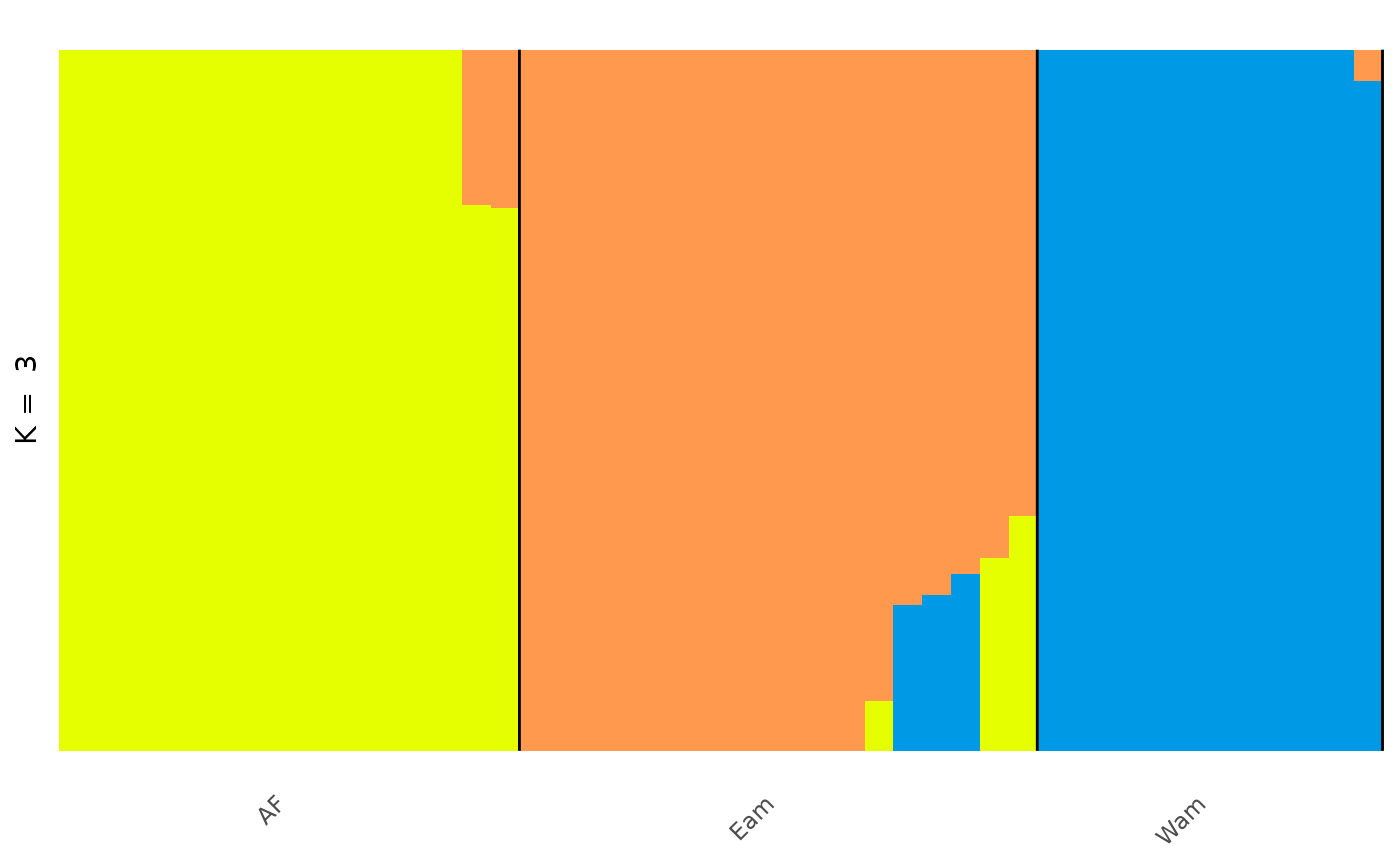
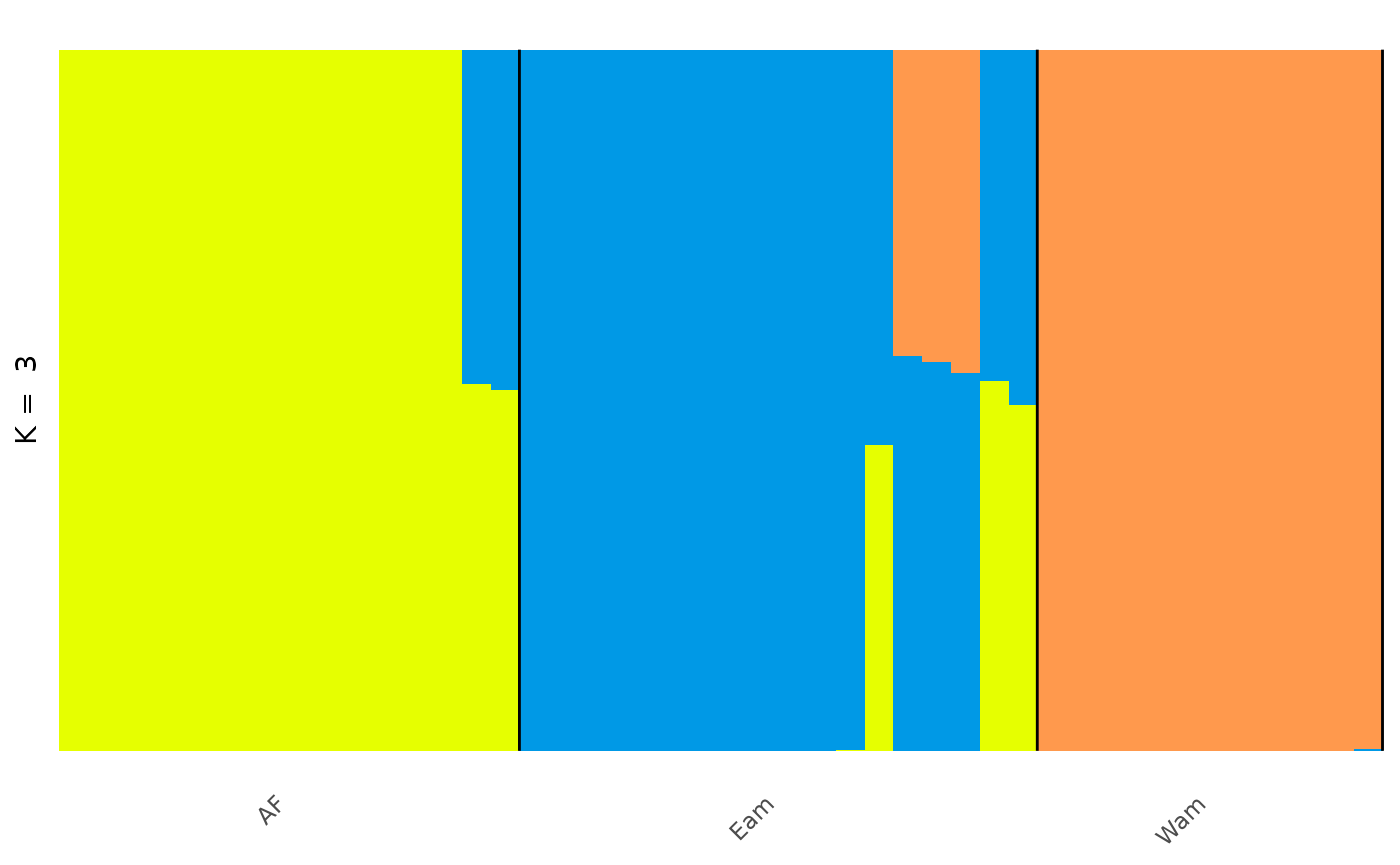
Deploying to gh-pages from @ EvolEcolGroup/tidygenclust@1fb72ca46dfa98d352c1ea52c8d83dc4de6b8d73 🚀

diff --git a/articles/tidygenclust.html b/articles/tidygenclust.html
@@ -278,44 +278,39 @@ specify a value for the number of clusters K.</p>
 <div class="sourceCode" id="cb20"><pre class="downlit sourceCode r">
 <code class="sourceCode R"><span><span class="va">anole_res</span> <span class="op">&lt;-</span> <span class="va">anole_gt</span> <span class="op"><a href="../reference/pipe.html">%&gt;%</a></span> <span class="fu"><a href="../reference/gt_fastmixture.html">gt_fastmixture</a></span><span class="op">(</span>k <span class="op">=</span> <span class="fl">3</span><span class="op">)</span></span></code></pre></div>
 <pre><code><span><span class="co">## -------------------------------------------------</span></span>
-<span><span class="co">## fastmixture v1.0.3</span></span>
+<span><span class="co">## fastmixture v1.1.1</span></span>
 <span><span class="co">## C.G. Santander, A. Refoyo-Martinez and J. Meisner</span></span>
 <span><span class="co">## K=3, seed=42, batches=32, threads=1</span></span>
 <span><span class="co">## -------------------------------------------------</span></span>
 <span><span class="co">## </span></span>
-<span><span class="co">## Loaded 46 samples and 3249 SNPs.</span></span>
+<span><span class="co">## </span></span>
+<span><span class="co">## WARNING: Few SNPs per mini-batch!</span></span>
+<span><span class="co">## </span></span>
 <span><span class="co">## Random initialization.</span></span>
 <span><span class="co">## Initial log-like: -220422.9</span></span>
-<span><span class="co">## Performed priming iteration  (0.0s)</span></span>
+<span><span class="co">## Performed priming iteration. (0.0s)</span></span>
 <span><span class="co">## </span></span>
 <span><span class="co">## Estimating Q and P using mini-batch EM.</span></span>
 <span><span class="co">## Using 32 mini-batches.</span></span>
-<span><span class="co">## (5)  Log-like: -58511.2  (0.0s)</span></span>
-<span><span class="co">## (10) Log-like: -58499.3  (0.0s)</span></span>
-<span><span class="co">## (15) Log-like: -58487.9  (0.0s)</span></span>
-<span><span class="co">## (20) Log-like: -58483.5  (0.0s)</span></span>
-<span><span class="co">## (25) Log-like: -58472.6  (0.0s)</span></span>
-<span><span class="co">## (30) Log-like: -58453.3  (0.0s)</span></span>
-<span><span class="co">## (35) Log-like: -58458.6  (0.0s)</span></span>
+<span><span class="co">## (5)  Log-like: -65244.8  (0.0s)</span></span>
+<span><span class="co">## (10) Log-like: -59883.7  (0.0s)</span></span>
+<span><span class="co">## (15) Log-like: -60094.3  (0.0s)</span></span>
 <span><span class="co">## Halving mini-batches to 16.</span></span>
-<span><span class="co">## (40) Log-like: -58447.8  (0.0s)</span></span>
-<span><span class="co">## (45) Log-like: -58444.6  (0.0s)</span></span>
-<span><span class="co">## (50) Log-like: -58465.7  (0.0s)</span></span>
-<span><span class="co">## Turning on safety updates.</span></span>
-<span><span class="co">## (55) Log-like: -58442.5  (0.0s)</span></span>
-<span><span class="co">## (60) Log-like: -58444.4  (0.0s)</span></span>
+<span><span class="co">## (20) Log-like: -59933.9  (0.0s)</span></span>
+<span><span class="co">## (25) Log-like: -59964.4  (0.0s)</span></span>
 <span><span class="co">## Halving mini-batches to 8.</span></span>
-<span><span class="co">## (65) Log-like: -58439.3  (0.0s)</span></span>
-<span><span class="co">## (70) Log-like: -58438.9  (0.0s)</span></span>
+<span><span class="co">## (30) Log-like: -60797.6  (0.0s)</span></span>
+<span><span class="co">## Turning on safety updates.</span></span>
+<span><span class="co">## (35) Log-like: -64272.0  (0.0s)</span></span>
 <span><span class="co">## Halving mini-batches to 4.</span></span>
-<span><span class="co">## (75) Log-like: -58438.0  (0.0s)</span></span>
-<span><span class="co">## (80) Log-like: -58437.8  (0.0s)</span></span>
+<span><span class="co">## (40) Log-like: -63085.8  (0.0s)</span></span>
+<span><span class="co">## (45) Log-like: -64353.6  (0.0s)</span></span>
 <span><span class="co">## Halving mini-batches to 2.</span></span>
-<span><span class="co">## (85) Log-like: -58437.7  (0.0s)</span></span>
-<span><span class="co">## (90) Log-like: -58437.7  (0.0s)</span></span>
+<span><span class="co">## (50) Log-like: -59957.8  (0.0s)</span></span>
+<span><span class="co">## (55) Log-like: -65708.6  (0.0s)</span></span>
 <span><span class="co">## Running standard updates.</span></span>
 <span><span class="co">## No improvement. Returning with best estimate!</span></span>
-<span><span class="co">## Final log-likelihood: -58437.6</span></span>
+<span><span class="co">## Final log-likelihood: -59883.7</span></span>
 <span><span class="co">## Total elapsed time: 0m0s</span></span></code></pre>
 <p>This will <em>very</em> quickly return a single Q matrix, for one
 specified K value. But, most likely we want to explore multiple values
@@ -363,24 +358,24 @@ of K = 4 like so:</p>
 <span>  <span class="fu"><a href="https://evolecolgroup.github.io/tidypopgen/reference/get_q_matrix.html" class="external-link">get_q_matrix</a></span><span class="op">(</span>k <span class="op">=</span> <span class="fl">4</span>, run <span class="op">=</span> <span class="fl">2</span><span class="op">)</span> <span class="op"><a href="../reference/pipe.html">%&gt;%</a></span></span>
 <span>  <span class="fu"><a href="https://rdrr.io/r/utils/head.html" class="external-link">head</a></span><span class="op">(</span><span class="op">)</span></span></code></pre></div>
 <pre><code><span><span class="co">##               .Q1          .Q2          .Q3          .Q4</span></span>
-<span><span class="co">## [1,] 9.999923e-06 9.999923e-06 9.999923e-06 9.999700e-01</span></span>
-<span><span class="co">## [2,] 9.999914e-06 9.999914e-06 9.999914e-06 9.999700e-01</span></span>
-<span><span class="co">## [3,] 3.179351e-01 6.820449e-01 9.999912e-06 9.999912e-06</span></span>
-<span><span class="co">## [4,] 9.999700e-01 9.999868e-06 9.999868e-06 9.999868e-06</span></span>
-<span><span class="co">## [5,] 2.626097e-01 7.373703e-01 9.999908e-06 9.999908e-06</span></span>
-<span><span class="co">## [6,] 9.999845e-06 9.999845e-06 9.999700e-01 9.999845e-06</span></span></code></pre>
+<span><span class="co">## [1,] 2.115600e-05 2.813873e-05 6.108197e-05 9.998896e-01</span></span>
+<span><span class="co">## [2,] 1.834057e-05 2.645122e-05 5.326335e-05 9.999019e-01</span></span>
+<span><span class="co">## [3,] 5.074471e-01 4.925329e-01 9.999875e-06 9.999875e-06</span></span>
+<span><span class="co">## [4,] 9.999318e-01 4.818752e-05 1.000000e-05 1.000000e-05</span></span>
+<span><span class="co">## [5,] 5.051094e-01 4.948706e-01 9.999879e-06 9.999879e-06</span></span>
+<span><span class="co">## [6,] 1.000000e-05 1.000000e-05 9.999464e-01 3.360893e-05</span></span></code></pre>
 <p>Or the P matrix of the first run of K = 3:</p>
 <div class="sourceCode" id="cb27"><pre class="downlit sourceCode r">
 <code class="sourceCode R"><span><span class="va">anole_res</span> <span class="op"><a href="../reference/pipe.html">%&gt;%</a></span></span>
 <span>  <span class="fu"><a href="https://evolecolgroup.github.io/tidypopgen/reference/get_p_matrix.html" class="external-link">get_p_matrix</a></span><span class="op">(</span>k <span class="op">=</span> <span class="fl">3</span>, run <span class="op">=</span> <span class="fl">1</span><span class="op">)</span> <span class="op"><a href="../reference/pipe.html">%&gt;%</a></span></span>
 <span>  <span class="fu"><a href="https://rdrr.io/r/utils/head.html" class="external-link">head</a></span><span class="op">(</span><span class="op">)</span></span></code></pre></div>
 <pre><code><span><span class="co">##           [,1]      [,2]  [,3]</span></span>
-<span><span class="co">## [1,] 0.3920996 0.0000100 1e-05</span></span>
-<span><span class="co">## [2,] 0.1677997 0.8351086 1e-05</span></span>
-<span><span class="co">## [3,] 0.0000100 0.8396586 1e-05</span></span>
-<span><span class="co">## [4,] 0.1833421 0.4999566 1e-05</span></span>
-<span><span class="co">## [5,] 0.3321308 0.0000100 1e-05</span></span>
-<span><span class="co">## [6,] 0.2612136 0.9999900 1e-05</span></span></code></pre>
+<span><span class="co">## [1,] 0.4134744 0.0000100 1e-05</span></span>
+<span><span class="co">## [2,] 0.1700725 0.8064057 1e-05</span></span>
+<span><span class="co">## [3,] 0.0000100 0.8109002 1e-05</span></span>
+<span><span class="co">## [4,] 0.1812214 0.4957036 1e-05</span></span>
+<span><span class="co">## [5,] 0.3309743 0.0000100 1e-05</span></span>
+<span><span class="co">## [6,] 0.2258939 0.9999900 1e-05</span></span></code></pre>
 </div>
 <div class="section level3">
 <h3 id="visualising-the-results">Visualising the results<a class="anchor" aria-label="anchor" href="#visualising-the-results"></a>
@@ -416,14 +411,14 @@ use for the plot:</p>
 <span><span class="co">##    id         group            q     percentage</span></span>
 <span><span class="co">##    <span style="color: #949494; font-style: italic;">&lt;chr&gt;</span>      <span style="color: #949494; font-style: italic;">&lt;chr&gt;</span>            <span style="color: #949494; font-style: italic;">&lt;chr&gt;</span>      <span style="color: #949494; font-style: italic;">&lt;dbl&gt;</span></span></span>
 <span><span class="co">## <span style="color: #BCBCBC;"> 1</span> punc_BM288 Amazonian_Forest .Q1   1.000     </span></span>
-<span><span class="co">## <span style="color: #BCBCBC;"> 2</span> punc_BM288 Amazonian_Forest .Q2   0.000<span style="text-decoration: underline;">010</span>00</span></span>
-<span><span class="co">## <span style="color: #BCBCBC;"> 3</span> punc_BM288 Amazonian_Forest .Q3   0.000<span style="text-decoration: underline;">010</span>00</span></span>
+<span><span class="co">## <span style="color: #BCBCBC;"> 2</span> punc_BM288 Amazonian_Forest .Q2   0.000<span style="text-decoration: underline;">026</span>5 </span></span>
+<span><span class="co">## <span style="color: #BCBCBC;"> 3</span> punc_BM288 Amazonian_Forest .Q3   0.000<span style="text-decoration: underline;">067</span>5 </span></span>
 <span><span class="co">## <span style="color: #BCBCBC;"> 4</span> punc_GN71  Amazonian_Forest .Q1   1.000     </span></span>
-<span><span class="co">## <span style="color: #BCBCBC;"> 5</span> punc_GN71  Amazonian_Forest .Q2   0.000<span style="text-decoration: underline;">010</span>00</span></span>
-<span><span class="co">## <span style="color: #BCBCBC;"> 6</span> punc_GN71  Amazonian_Forest .Q3   0.000<span style="text-decoration: underline;">010</span>00</span></span>
-<span><span class="co">## <span style="color: #BCBCBC;"> 7</span> punc_H1907 Amazonian_Forest .Q1   0.000<span style="text-decoration: underline;">010</span>00</span></span>
+<span><span class="co">## <span style="color: #BCBCBC;"> 5</span> punc_GN71  Amazonian_Forest .Q2   0.000<span style="text-decoration: underline;">023</span>7 </span></span>
+<span><span class="co">## <span style="color: #BCBCBC;"> 6</span> punc_GN71  Amazonian_Forest .Q3   0.000<span style="text-decoration: underline;">058</span>7 </span></span>
+<span><span class="co">## <span style="color: #BCBCBC;"> 7</span> punc_H1907 Amazonian_Forest .Q1   0.000<span style="text-decoration: underline;">023</span>7 </span></span>
 <span><span class="co">## <span style="color: #BCBCBC;"> 8</span> punc_H1907 Amazonian_Forest .Q2   1.000     </span></span>
-<span><span class="co">## <span style="color: #BCBCBC;"> 9</span> punc_H1907 Amazonian_Forest .Q3   0.000<span style="text-decoration: underline;">010</span>00</span></span>
+<span><span class="co">## <span style="color: #BCBCBC;"> 9</span> punc_H1907 Amazonian_Forest .Q3   0.000<span style="text-decoration: underline;">014</span>4 </span></span>
 <span><span class="co">## <span style="color: #BCBCBC;">10</span> punc_H1911 Amazonian_Forest .Q1   0.000<span style="text-decoration: underline;">010</span>00</span></span>
 <span><span class="co">## <span style="color: #949494;"># ℹ 128 more rows</span></span></span></code></pre>
 <p>In the Prates et al 2018 study, the anolis lizards were found to

diff --git a/reference/tidygenclust-package.html b/reference/tidygenclust-package.html
@@ -1,5 +1,6 @@
 <!DOCTYPE html>
-<!-- Generated by pkgdown: do not edit by hand --><html lang="en"><head><meta http-equiv="Content-Type" content="text/html; charset=UTF-8"><meta charset="utf-8"><meta http-equiv="X-UA-Compatible" content="IE=edge"><meta name="viewport" content="width=device-width, initial-scale=1.0"><title>tidygenclust: Clustering for Population Genetics in R — tidygenclust-package • tidygenclust</title><!-- jquery --><script src="https://cdnjs.cloudflare.com/ajax/libs/jquery/3.7.1/jquery.min.js" integrity="sha512-v2CJ7UaYy4JwqLDIrZUI/4hqeoQieOmAZNXBeQyjo21dadnwR+8ZaIJVT8EE2iyI61OV8e6M8PP2/4hpQINQ/g==" crossorigin="anonymous" referrerpolicy="no-referrer"></script><!-- Bootstrap --><link rel="stylesheet" href="https://cdnjs.cloudflare.com/ajax/libs/twitter-bootstrap/3.4.1/css/bootstrap.min.css" integrity="sha256-bZLfwXAP04zRMK2BjiO8iu9pf4FbLqX6zitd+tIvLhE=" crossorigin="anonymous"><script src="https://cdnjs.cloudflare.com/ajax/libs/twitter-bootstrap/3.4.1/js/bootstrap.min.js" integrity="sha256-nuL8/2cJ5NDSSwnKD8VqreErSWHtnEP9E7AySL+1ev4=" crossorigin="anonymous"></script><!-- bootstrap-toc --><link rel="stylesheet" href="../bootstrap-toc.css"><script src="../bootstrap-toc.js"></script><!-- Font Awesome icons --><link rel="stylesheet" href="https://cdnjs.cloudflare.com/ajax/libs/font-awesome/5.12.1/css/all.min.css" integrity="sha256-mmgLkCYLUQbXn0B1SRqzHar6dCnv9oZFPEC1g1cwlkk=" crossorigin="anonymous"><link rel="stylesheet" href="https://cdnjs.cloudflare.com/ajax/libs/font-awesome/5.12.1/css/v4-shims.min.css" integrity="sha256-wZjR52fzng1pJHwx4aV2AO3yyTOXrcDW7jBpJtTwVxw=" crossorigin="anonymous"><!-- clipboard.js --><script src="https://cdnjs.cloudflare.com/ajax/libs/clipboard.js/2.0.6/clipboard.min.js" integrity="sha256-inc5kl9MA1hkeYUt+EC3BhlIgyp/2jDIyBLS6k3UxPI=" crossorigin="anonymous"></script><!-- headroom.js --><script src="https://cdnjs.cloudflare.com/ajax/libs/headroom/0.11.0/headroom.min.js" integrity="sha256-AsUX4SJE1+yuDu5+mAVzJbuYNPHj/WroHuZ8Ir/CkE0=" crossorigin="anonymous"></script><script src="https://cdnjs.cloudflare.com/ajax/libs/headroom/0.11.0/jQuery.headroom.min.js" integrity="sha256-ZX/yNShbjqsohH1k95liqY9Gd8uOiE1S4vZc+9KQ1K4=" crossorigin="anonymous"></script><!-- pkgdown --><link href="../pkgdown.css" rel="stylesheet"><script src="../pkgdown.js"></script><meta property="og:title" content="tidygenclust: Clustering for Population Genetics in R — tidygenclust-package"><meta property="og:description" content="A tidy interface to clustering in population genetics. This package provides a set of functions to perform clustering on genetic data, and to visualize the results, both for single runs and for multiple repeats of the same analysis. 'tidygenclust' ports the 'fastmixture' and 'clumppling' python modules to R, and it is built on top of the 'tidypopgen' package. Currently it works only on Linux and OSX (you can use the WSL on Windows)."><meta property="og:image" content="/logo.png"><!-- mathjax --><script src="https://cdnjs.cloudflare.com/ajax/libs/mathjax/2.7.5/MathJax.js" integrity="sha256-nvJJv9wWKEm88qvoQl9ekL2J+k/RWIsaSScxxlsrv8k=" crossorigin="anonymous"></script><script src="https://cdnjs.cloudflare.com/ajax/libs/mathjax/2.7.5/config/TeX-AMS-MML_HTMLorMML.js" integrity="sha256-84DKXVJXs0/F8OTMzX4UR909+jtl4G7SPypPavF+GfA=" crossorigin="anonymous"></script><!--[if lt IE 9]>
+<!-- Generated by pkgdown: do not edit by hand --><html lang="en"><head><meta http-equiv="Content-Type" content="text/html; charset=UTF-8"><meta charset="utf-8"><meta http-equiv="X-UA-Compatible" content="IE=edge"><meta name="viewport" content="width=device-width, initial-scale=1.0"><title>tidygenclust: Clustering for Population Genetics in R — tidygenclust-package • tidygenclust</title><!-- jquery --><script src="https://cdnjs.cloudflare.com/ajax/libs/jquery/3.7.1/jquery.min.js" integrity="sha512-v2CJ7UaYy4JwqLDIrZUI/4hqeoQieOmAZNXBeQyjo21dadnwR+8ZaIJVT8EE2iyI61OV8e6M8PP2/4hpQINQ/g==" crossorigin="anonymous" referrerpolicy="no-referrer"></script><!-- Bootstrap --><link rel="stylesheet" href="https://cdnjs.cloudflare.com/ajax/libs/twitter-bootstrap/3.4.1/css/bootstrap.min.css" integrity="sha256-bZLfwXAP04zRMK2BjiO8iu9pf4FbLqX6zitd+tIvLhE=" crossorigin="anonymous"><script src="https://cdnjs.cloudflare.com/ajax/libs/twitter-bootstrap/3.4.1/js/bootstrap.min.js" integrity="sha256-nuL8/2cJ5NDSSwnKD8VqreErSWHtnEP9E7AySL+1ev4=" crossorigin="anonymous"></script><!-- bootstrap-toc --><link rel="stylesheet" href="../bootstrap-toc.css"><script src="../bootstrap-toc.js"></script><!-- Font Awesome icons --><link rel="stylesheet" href="https://cdnjs.cloudflare.com/ajax/libs/font-awesome/5.12.1/css/all.min.css" integrity="sha256-mmgLkCYLUQbXn0B1SRqzHar6dCnv9oZFPEC1g1cwlkk=" crossorigin="anonymous"><link rel="stylesheet" href="https://cdnjs.cloudflare.com/ajax/libs/font-awesome/5.12.1/css/v4-shims.min.css" integrity="sha256-wZjR52fzng1pJHwx4aV2AO3yyTOXrcDW7jBpJtTwVxw=" crossorigin="anonymous"><!-- clipboard.js --><script src="https://cdnjs.cloudflare.com/ajax/libs/clipboard.js/2.0.6/clipboard.min.js" integrity="sha256-inc5kl9MA1hkeYUt+EC3BhlIgyp/2jDIyBLS6k3UxPI=" crossorigin="anonymous"></script><!-- headroom.js --><script src="https://cdnjs.cloudflare.com/ajax/libs/headroom/0.11.0/headroom.min.js" integrity="sha256-AsUX4SJE1+yuDu5+mAVzJbuYNPHj/WroHuZ8Ir/CkE0=" crossorigin="anonymous"></script><script src="https://cdnjs.cloudflare.com/ajax/libs/headroom/0.11.0/jQuery.headroom.min.js" integrity="sha256-ZX/yNShbjqsohH1k95liqY9Gd8uOiE1S4vZc+9KQ1K4=" crossorigin="anonymous"></script><!-- pkgdown --><link href="../pkgdown.css" rel="stylesheet"><script src="../pkgdown.js"></script><meta property="og:title" content="tidygenclust: Clustering for Population Genetics in R — tidygenclust-package"><meta property="og:description" content="
+A tidy interface to clustering in population genetics. This package provides a set of functions to perform clustering on genetic data, and to visualize the results, both for single runs and for multiple repeats of the same analysis. 'tidygenclust' ports the 'fastmixture' and 'clumppling' python modules to R, and it is built on top of the 'tidypopgen' package. Currently it works only on Linux and OSX (you can use the WSL on Windows)."><meta property="og:image" content="/logo.png"><!-- mathjax --><script src="https://cdnjs.cloudflare.com/ajax/libs/mathjax/2.7.5/MathJax.js" integrity="sha256-nvJJv9wWKEm88qvoQl9ekL2J+k/RWIsaSScxxlsrv8k=" crossorigin="anonymous"></script><script src="https://cdnjs.cloudflare.com/ajax/libs/mathjax/2.7.5/config/TeX-AMS-MML_HTMLorMML.js" integrity="sha256-84DKXVJXs0/F8OTMzX4UR909+jtl4G7SPypPavF+GfA=" crossorigin="anonymous"></script><!--[if lt IE 9]>
 <script src="https://oss.maxcdn.com/html5shiv/3.7.3/html5shiv.min.js"></script>
 <script src="https://oss.maxcdn.com/respond/1.4.2/respond.min.js"></script>
 <![endif]--></head><body data-spy="scroll" data-target="#toc">
@@ -46,7 +47,8 @@
     </div>
 
     <div class="ref-description">
-    <p>A tidy interface to clustering in population genetics. This package provides a set of functions to perform clustering on genetic data, and to visualize the results, both for single runs and for multiple repeats of the same analysis. 'tidygenclust' ports the 'fastmixture' and 'clumppling' python modules to R, and it is built on top of the 'tidypopgen' package. Currently it works only on Linux and OSX (you can use the WSL on Windows).</p>
+    <p></p>
+<p>A tidy interface to clustering in population genetics. This package provides a set of functions to perform clustering on genetic data, and to visualize the results, both for single runs and for multiple repeats of the same analysis. 'tidygenclust' ports the 'fastmixture' and 'clumppling' python modules to R, and it is built on top of the 'tidypopgen' package. Currently it works only on Linux and OSX (you can use the WSL on Windows).</p>
     </div>
 
 
@@ -54,7 +56,8 @@
     <h2>Author</h2>
     <p><strong>Maintainer</strong>: Andrea Manica <a href="mailto:am315@cam.ac.uk">am315@cam.ac.uk</a> (<a href="https://orcid.org/0000-0003-1895-450X" class="external-link">ORCID</a>)</p>
 <p>Authors:</p><ul><li><p>Eirlys Tysall</p></li>
-<li><p>Hovhannisyan Anahit</p></li>
+<li><p>Anahit Hovhannisyan</p></li>
+<li><p>Evie Carter</p></li>
 <li><p>Andrea Pozzi</p></li>
 <li><p>Cecilia Padilla-Iglesias</p></li>
 <li><p>Michela Leonardi</p></li>

diff --git a/reference/gt_fastmixture.html b/reference/gt_fastmixture.html
@@ -62,15 +62,16 @@ that you cite the relevant paper by Santander, Refoyo-Martínez, and Meisner
 <span>  n_runs <span class="op">=</span> <span class="fl">1</span>,</span>
 <span>  threads <span class="op">=</span> <span class="fl">1</span>,</span>
 <span>  seed <span class="op">=</span> <span class="fl">42</span>,</span>
-<span>  outprefix <span class="op">=</span> <span class="st">"fastmixture"</span>,</span>
 <span>  iter <span class="op">=</span> <span class="fl">1000</span>,</span>
-<span>  tole <span class="op">=</span> <span class="fl">0.5</span>,</span>
+<span>  tole <span class="op">=</span> <span class="fl">1e-09</span>,</span>
 <span>  batches <span class="op">=</span> <span class="fl">32</span>,</span>
 <span>  supervised <span class="op">=</span> <span class="cn">NULL</span>,</span>
 <span>  check <span class="op">=</span> <span class="fl">5</span>,</span>
 <span>  power <span class="op">=</span> <span class="fl">11</span>,</span>
-<span>  output_path <span class="op">=</span> <span class="fu"><a href="https://rdrr.io/r/base/getwd.html" class="external-link">getwd</a></span><span class="op">(</span><span class="op">)</span>,</span>
 <span>  chunk <span class="op">=</span> <span class="fl">8192</span>,</span>
+<span>  subsample <span class="op">=</span> <span class="fl">0.7</span>,</span>
+<span>  min_subsample <span class="op">=</span> <span class="fl">50000</span>,</span>
+<span>  max_subsample <span class="op">=</span> <span class="fl">5e+05</span>,</span>
 <span>  als_iter <span class="op">=</span> <span class="fl">1000</span>,</span>
 <span>  als_tole <span class="op">=</span> <span class="fl">1e-04</span>,</span>
 <span>  no_freqs <span class="op">=</span> <span class="cn">TRUE</span>,</span>
@@ -106,16 +107,12 @@ or a vector</p></dd>
 <code>repeats</code></p></dd>
 
 
-<dt id="arg-outprefix">outprefix<a class="anchor" aria-label="anchor" href="#arg-outprefix"></a></dt>
-<dd><p>the prefix of the output files (fastmixture)</p></dd>
-
-
 <dt id="arg-iter">iter<a class="anchor" aria-label="anchor" href="#arg-iter"></a></dt>
 <dd><p>the maximum number of iterations (1000)</p></dd>
 
 
 <dt id="arg-tole">tole<a class="anchor" aria-label="anchor" href="#arg-tole"></a></dt>
-<dd><p>the tolerance in log-likelihood units between iterations (0.5)</p></dd>
+<dd><p>the tolerance in log-likelihood units between iterations (1e-9)</p></dd>
 
 
 <dt id="arg-batches">batches<a class="anchor" aria-label="anchor" href="#arg-batches"></a></dt>
@@ -134,12 +131,20 @@ or a vector</p></dd>
 <dd><p>number of power iterations in randomised SVD (11)</p></dd>
 
 
-<dt id="arg-output-path">output_path<a class="anchor" aria-label="anchor" href="#arg-output-path"></a></dt>
-<dd><p>the path where q matrices will be saved id save_q= TRUE</p></dd>
-
-
 <dt id="arg-chunk">chunk<a class="anchor" aria-label="anchor" href="#arg-chunk"></a></dt>
 <dd><p>the number of SPs in chunk operations (8192)</p></dd>
+
+
+<dt id="arg-subsample">subsample<a class="anchor" aria-label="anchor" href="#arg-subsample"></a></dt>
+<dd><p>Fraction of SNPs to subsample in SVD/ALS (0.7)</p></dd>
+
+
+<dt id="arg-min-subsample">min_subsample<a class="anchor" aria-label="anchor" href="#arg-min-subsample"></a></dt>
+<dd><p>Minimum number of SNPs to subsample in SVD/ALS (50000)</p></dd>
+
+
+<dt id="arg-max-subsample">max_subsample<a class="anchor" aria-label="anchor" href="#arg-max-subsample"></a></dt>
+<dd><p>Maximum number of SNPs to subsample in SVD/ALS (500000)</p></dd>
 
 
 <dt id="arg-als-iter">als_iter<a class="anchor" aria-label="anchor" href="#arg-als-iter"></a></dt>

diff --git a/reference/tgc_tools_install.html b/reference/tgc_tools_install.html
@@ -70,7 +70,7 @@ this might lead to incompatibilities and errors.</p>
     <div id="ref-usage">
     <div class="sourceCode"><pre class="sourceCode r"><code><span><span class="fu">tgc_tools_install</span><span class="op">(</span></span>
 <span>  reset <span class="op">=</span> <span class="cn">FALSE</span>,</span>
-<span>  fastmixture_hash <span class="op">=</span> <span class="st">"105eb99248d278cad320885190b919ad8a69be1b"</span>,</span>
+<span>  fastmixture_hash <span class="op">=</span> <span class="st">"f913014669f4a235a1150669d4fbf0715bef42be"</span>,</span>
 <span>  clumppling_hash <span class="op">=</span> <span class="st">"a4bf351037fb569e2c2cb83c603a1931606d4d40"</span></span>
 <span><span class="op">)</span></span></code></pre></div>
     </div>
